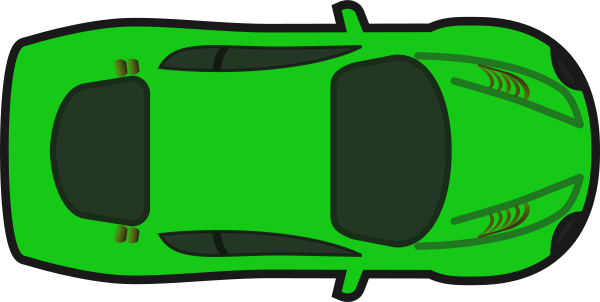
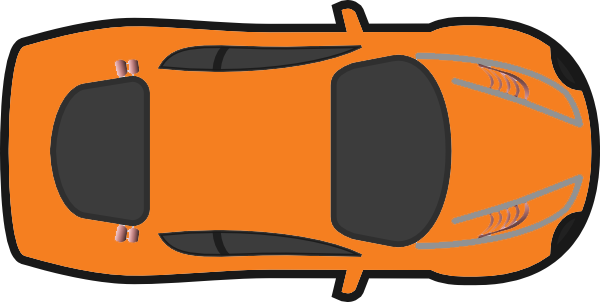
registration car id

diff --git a/src/public/index.html b/src/public/index.html
@@ -42,32 +42,32 @@
         </div>
         <button id="signout-button" class="icon"><span class="material-icons">logout</span></button>
     </div>
-  
+
     <div class="row">
         <div id="game-container" class="col">
 
             <div id="game-racetrack-container">
                 <div class="game-racetrack">
                     <div id="game-flexbox-0" class="game-flexbox row">
-                        <span id="game-userdata-0" class="game-user-data">empty track</span>
+                        <span id="game-userdata-0" class="game-userdata">empty track</span>
                     </div>
                     <div id="game-car-0" class="game-car"></div>
                 </div>
                 <div class="game-racetrack">
                     <div id="game-flexbox-1" class="game-flexbox row">
-                        <span id="game-userdata-1" class="game-user-data">empty track</span>
+                        <span id="game-userdata-1" class="game-userdata">empty track</span>
                     </div>
                     <div id="game-car-1" class="game-car"></div>
                 </div>
                 <div class="game-racetrack">
                     <div id="game-flexbox-2" class="game-flexbox row">
-                        <span id="game-userdata-2" class="game-user-data">empty track</span>
+                        <span id="game-userdata-2" class="game-userdata">empty track</span>
                     </div>
                     <div id="game-car-2" class="game-car"></div>
                 </div>
                 <div class="game-racetrack">
                     <div id="game-flexbox-3" class="game-flexbox row">
-                        <span id="game-userdata-3" class="game-user-data">empty track</span>
+                        <span id="game-userdata-3" class="game-userdata">empty track</span>
                     </div>
                     <div id="game-car-3" class="game-car"></div>
                 </div>
@@ -76,10 +76,10 @@
             <div id="game-paragraph">
                 get ready!
             </div>
-            
+
             <textarea id="game-input"></textarea>
             <button id="game-ready-button" class="icon"><span class="material-icons">ready</span></button>
-    
+
         </div>
     </div>
     <div id="signin-modal" class="modal row">
@@ -104,13 +104,32 @@
                 <div class="row">
                     <h3>nice to meet you!</h3>
                 </div>
-                <input id="register-displayname" maxlength="16" placeholder="what's your name?"></input>
-                <input id="register-username" maxlength="16" placeholder="your login username"></input>
-                <input id="register-password" type="password" placeholder="top secret password"></input>
-                <input id="register-confirm" type="password" placeholder="re-enter your password"></input>
-                <div class="spacer-2"></div>
-                <button type="submit">register account</button>
-                <div id="register-message" class="warning center"></div>
+                <div class="row">
+                    <div class="col">
+                        <input id="register-displayname" maxlength="16" placeholder="what's your name?"></input>
+                        <input id="register-username" maxlength="16" placeholder="your login username"></input>
+                        <input id="register-password" type="password" placeholder="top secret password"></input>
+                        <input id="register-confirm" type="password" placeholder="re-enter your password"></input>
+                    </div>
+                    <div class="col">
+                        <div class="row">
+                            <span>choose a color for your car!</span>
+                        </div>
+                        <select id="register-carid">
+                            <option value="1">red</option>
+                            <option value="2">orange</option>
+                            <option value="3">yellow</option>
+                            <option value="4">blue</option>
+                            <option value="5">green</option>
+                            <option value="6">white</option>
+                        </select>
+                        <div id="register-carid-display"></div>
+                    </div>
+                </div>
+                <div class="row">
+                    <button type="submit">register account</button>
+                    <div id="register-message" class="warning center"></div>
+                </div>
                 <div class="row">
                     <div>already have an account?</div>
                     <button class="signin-switch-button" type="button">login</button>

diff --git a/src/public/scripts/ui.js b/src/public/scripts/ui.js
@@ -39,6 +39,11 @@ const SignInForm = (() => {
             );
         });
 
+        $("#register-carid").on("change", (e) => {
+            let carId = e.target.value;
+            $("#register-carid-display").css("background-image", `url("img/car${carId}.png")`);
+        })
+
         // submit event for the register form
         $("#register-form").on("submit", (e) => {
 
@@ -48,7 +53,7 @@ const SignInForm = (() => {
             // get the input fields
             const username = $("#register-username").val().trim();
             const displayName = $("#register-displayname").val().trim();
-            const carId = 1;
+            const carId = $("#register-carid").val();
             const password = $("#register-password").val().trim();
             const confirmPassword = $("#register-confirm").val().trim();
 
@@ -180,7 +185,7 @@ const GamePanel = (() => {
                 // if word is correct
                 if (inputValue == wordArray[currentWordIndex]) {
                     wpm = Math.floor((charCountArray[currentWordIndex] / 5) / ((new Date() - startTime) / 60000));
-                    width = Math.floor(charCountArray[currentWordIndex]/paragraph.length * 80) + 15;
+                    width = Math.floor(charCountArray[currentWordIndex] / paragraph.length * 80) + 15;
                     $(`#game-flexbox-${playerIndex}`).css("width", width + '%');
                     $('#game-paragraph > span').eq(currentWordIndex).css("color", "grey");
                     gameInput.val('');
@@ -206,8 +211,10 @@ const GamePanel = (() => {
     // updates WPM and position of cars other than the player
     const updateWPM = (user, wpm, width) => {
         if (user.username == Authentication.getUser().username) return;
-        otherPlayerIndex = localPlayers.findIndex((player) => player.username == user.username);
+        let otherPlayerIndex = localPlayers.findIndex((player) => player.username == user.username);
         if (otherPlayerIndex == -1) return;
+
+        $(`#game-flexbox-${playerIndex}`).css("width", width + '%');
     }
 
     return { initialize, startGame, updateWPM };

diff --git a/src/public/styles.css b/src/public/styles.css
@@ -12,6 +12,7 @@
     --modal-background: rgba(0, 0, 0, 0.6);
     --modal-content-background: #191919;
     --form-input-background: #40444b;
+    --select-background: #40444b;
 
     --user-panel-background: #191919;
 
@@ -45,10 +46,13 @@ body {
     align-items: center;
     justify-content: center;
     gap: 10px;
-    padding: 20px;
+    padding: 10px;
 }
 .col {
     flex-direction: column;
+}
+.no-gutters {
+    gap: 0px !important; 
 }
 .spacer-0 {
     width: 0;
@@ -99,6 +103,23 @@ input {
 input:focus {
     outline: none;
 }
+select {
+    background: var(--select-background);
+    border: none;
+    border-radius: 5px;
+    padding: 12px 20px;
+    width: 100%;
+    flex-grow: 0;
+}
+#register-carid-display {
+    background-image: url('./img/car1.png');
+    background-repeat: no-repeat;
+    background-position: center;
+    background-size: auto 50%;
+    flex-grow: 4;
+    width: 50px;
+    height: 50px;
+}
 
 /* buttons */
 button {
@@ -123,7 +144,6 @@ button:hover {
 #game-container {
     width: 70%;
 }
-
 #game-racetrack-container {
     flex-direction: column;
     display: flex;
@@ -139,7 +159,6 @@ button:hover {
     width: 100%;
     height: 50px;
 }
-
 .game-car {
     background-image: none;
     background-repeat: no-repeat;
@@ -147,9 +166,7 @@ button:hover {
     background-size: auto 50%;
     width: 50px;
     height: 50px;
-    
 }
-
 .game-flexbox {
     width: 15%;
     height: 100%;
@@ -157,7 +174,9 @@ button:hover {
     margin-right: 5px;
     justify-content: right;
 }
-
+.game-userdata {
+    font-size: small;
+}
 #game-paragraph {
     background: var(--game-paragraph-background);
     width: 100%;
@@ -167,7 +186,6 @@ button:hover {
     gap: 10px;
     padding: 20px;
 }
-
 #game-input {
     background: var(--game-input-background);
     width: 100%;

diff --git a/src/public/scripts/socket.js b/src/public/scripts/socket.js
@@ -1,14 +1,14 @@
-const Socket = (function () {
+const Socket = (() => {
     // stores the current Socket.IO socket
     let socket = null;
 
     // gets the socket from the module
-    const getSocket = function () {
+    const getSocket = () => {
         return socket;
     };
 
     // connects the server and initializes the socket
-    const connect = function () {
+    const connect = () => {
         socket = io();
 
         // wait for the socket to connect successfully
@@ -37,6 +37,7 @@ const Socket = (function () {
             GamePanel.startGame(players, paragraph);
         });
 
+        // for receiving the wpm from other players to update ui
         socket.on("update wpm", (res) => {
             const { user, wpm, width } = JSON.parse(res);
             GamePanel.updateWPM(user, wpm, width);
@@ -59,6 +60,7 @@ const Socket = (function () {
         }
     };
 
+    // sends self wpm to server to update other players' clients
     const currentWPM = (wpm, width) => {
         if (socket && socket.connected) {
             socket.emit("current wpm", wpm, width);
